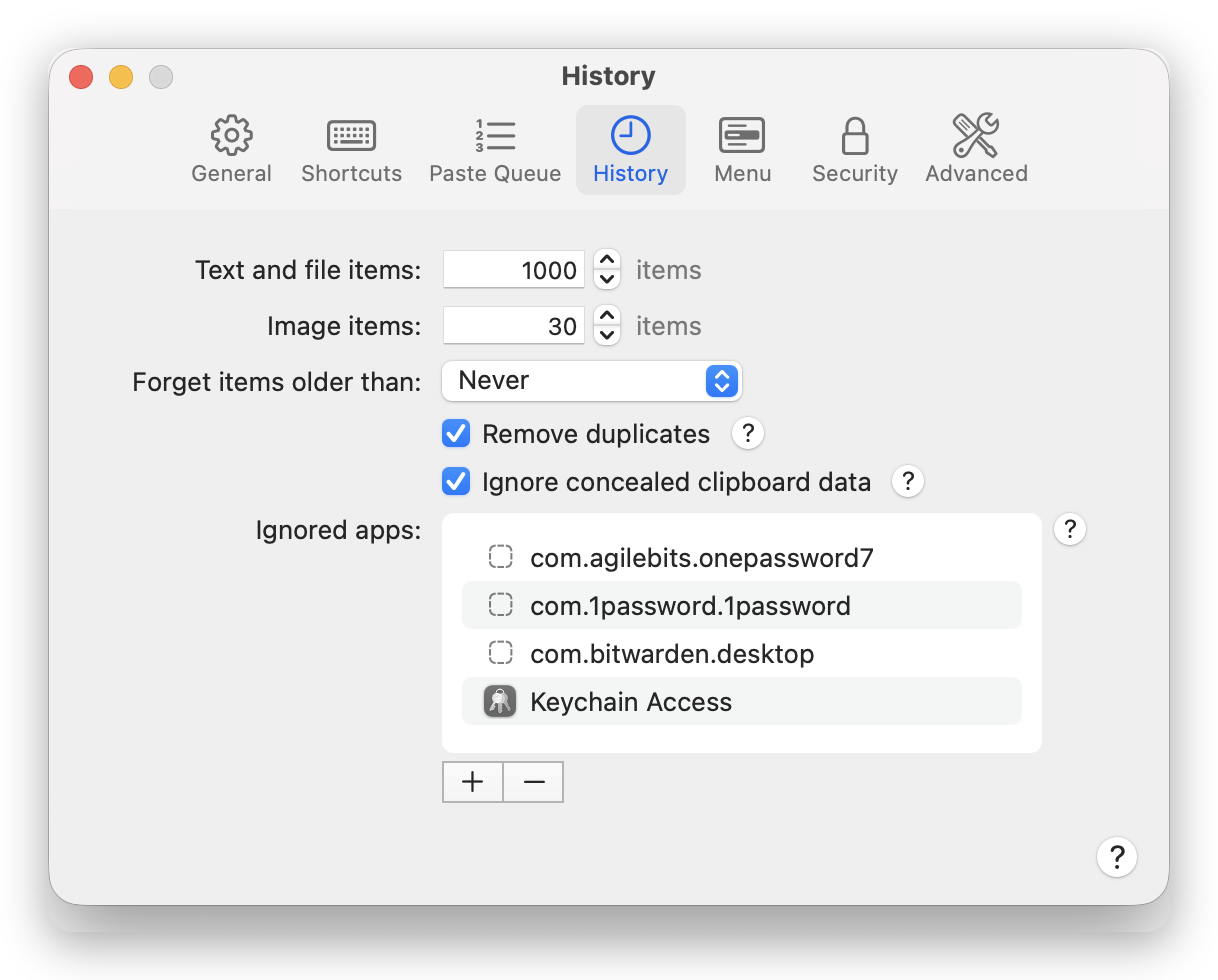
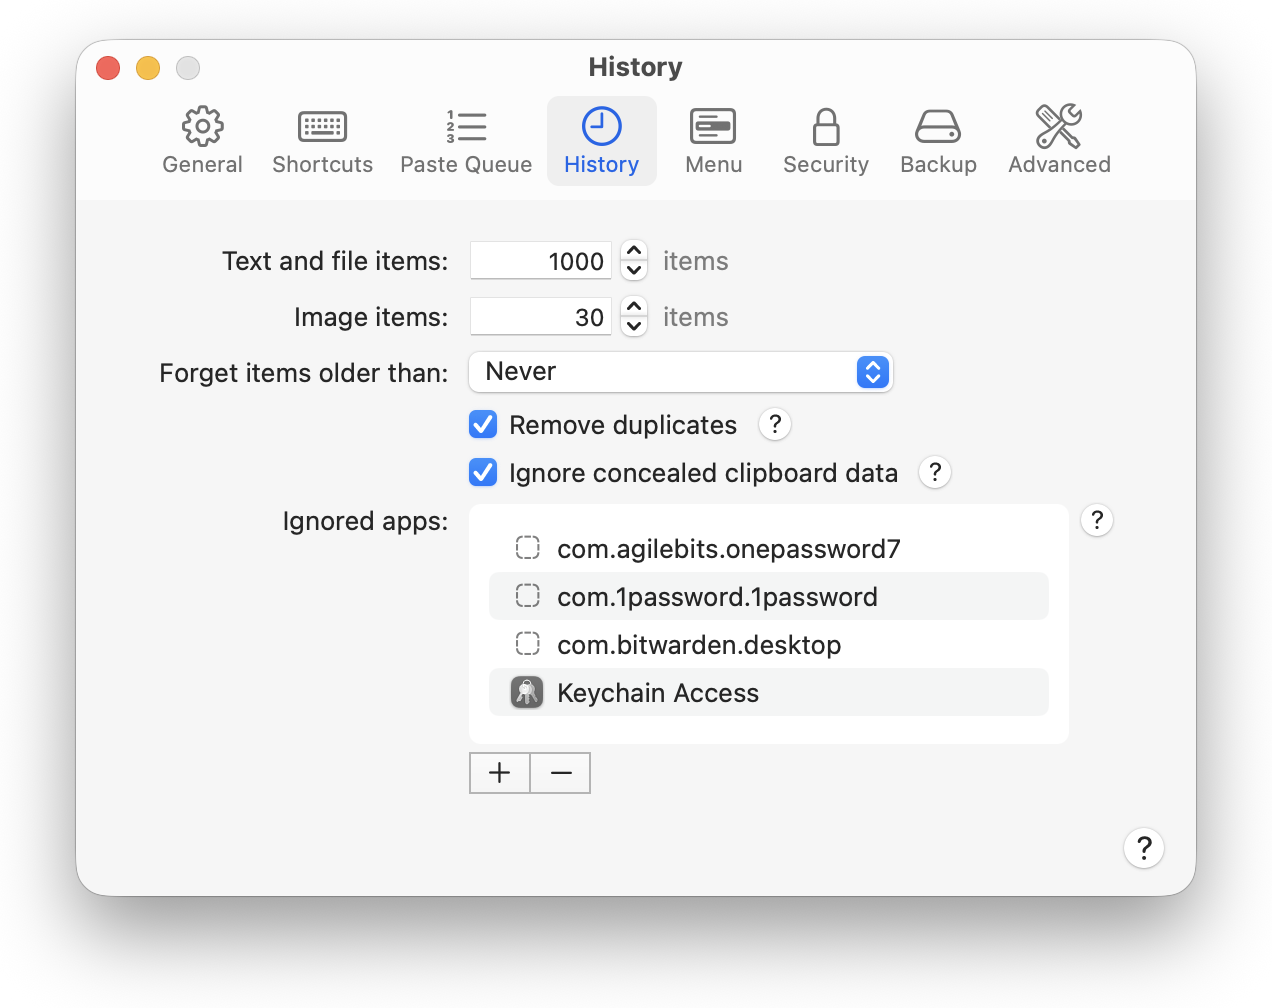
Guide: the eight Settings panes retaken for 3.0.1, every one with the same margins around the window
Scripts/normalize_screenshot.py finds the window inside a white-background
screenshot with its macOS shadow and re-crops to fixed margins (2x:
76 left/right, 40 top, 112 bottom — the full shadow plus a hair), so
every window shot in the guide sits the same way on the page.

Claude-Session: https://claude.ai/code/session_018CvCqvTTYcjZs6rVg6ZZHt

diff --git a/docs/site/guide.html b/docs/site/guide.html
@@ -197,7 +197,7 @@ cells into a form, lines from a page into a document. The paste queue does that 
 space or nothing — pick on the <em>Paste Queue</em> pane of Settings, where the idle time lives too. While the queue is on, the history menu marks its
 items: <code>▶</code> next to paste, <code>○</code> still queued, <code>✓</code> already pasted.</p>
 <figure class="shot" style="max-width:610px"><a href="img/guide/queue-menu.png?v=f33f01f7" class="zoom" title="Open full size"><img src="img/guide/queue-menu.png?v=f33f01f7" alt="The history menu with the queue on: ○ queued, ▶ next, ✓ pasted; the menu row shows how many are left" width="610" height="772" loading="lazy"></a><figcaption>The history menu with the queue on: ○ queued, ▶ next, ✓ pasted; the menu row shows how many are left</figcaption></figure>
-<figure class="shot" style="max-width:657px"><a href="img/guide/prefs-queue.png?v=753987a4" class="zoom" title="Open full size"><img src="img/guide/prefs-queue.png?v=753987a4" alt="Settings → Paste Queue" width="657" height="429" loading="lazy"></a><figcaption>Settings → Paste Queue</figcaption></figure>
+<figure class="shot" style="max-width:636px"><a href="img/guide/prefs-queue.png?v=8acf05f4" class="zoom" title="Open full size"><img src="img/guide/prefs-queue.png?v=8acf05f4" alt="Settings → Paste Queue" width="636" height="453" loading="lazy"></a><figcaption>Settings → Paste Queue</figcaption></figure>
 <h3 id="the-extended-menu">The extended menu</h3>
 <p>Hold <strong>⇧</strong> while the history menu is open and every item gets a <code>▸</code> submenu with all actions for
 that item: Paste, Paste as plain text, Copy only (clipboard, no paste), the <em>Paste as</em>
@@ -330,7 +330,7 @@ the empty line.</p>
 the Mac: pick a pane in the toolbar, and every change applies the moment you make it — there is no
 Save button; close the window with ⌘W or Esc. Every option with a <strong>?</strong> next to it has a popover
 that explains it.</p>
-<figure class="shot" style="max-width:598px"><a href="img/guide/prefs-general.png?v=a11ed208" class="zoom" title="Open full size"><img src="img/guide/prefs-general.png?v=a11ed208" alt="Settings → General" width="598" height="463" loading="lazy"></a><figcaption>Settings → General</figcaption></figure>
+<figure class="shot" style="max-width:636px"><a href="img/guide/prefs-general.png?v=f7d5654f" class="zoom" title="Open full size"><img src="img/guide/prefs-general.png?v=f7d5654f" alt="Settings → General" width="636" height="463" loading="lazy"></a><figcaption>Settings → General</figcaption></figure>
 <div class="tbl"><table>
 <thead>
 <tr>
@@ -373,8 +373,8 @@ that explains it.</p>
 </tr>
 </tbody>
 </table></div>
-<figure class="shot" style="max-width:609px"><a href="img/guide/prefs-history.png?v=d4706a61" class="zoom" title="Open full size"><img src="img/guide/prefs-history.png?v=d4706a61" alt="Settings → History: limits and the ignored-apps list" width="609" height="490" loading="lazy"></a><figcaption>Settings → History: limits and the ignored-apps list</figcaption></figure>
-<figure class="shot" style="max-width:609px"><a href="img/guide/prefs-hotkeys.png?v=dfd1878b" class="zoom" title="Open full size"><img src="img/guide/prefs-hotkeys.png?v=dfd1878b" alt="Settings → Shortcuts" width="609" height="679" loading="lazy"></a><figcaption>Settings → Shortcuts</figcaption></figure>
+<figure class="shot" style="max-width:636px"><a href="img/guide/prefs-history.png?v=5b6438c2" class="zoom" title="Open full size"><img src="img/guide/prefs-history.png?v=5b6438c2" alt="Settings → History: limits and the ignored-apps list" width="636" height="504" loading="lazy"></a><figcaption>Settings → History: limits and the ignored-apps list</figcaption></figure>
+<figure class="shot" style="max-width:636px"><a href="img/guide/prefs-hotkeys.png?v=3e077afa" class="zoom" title="Open full size"><img src="img/guide/prefs-hotkeys.png?v=3e077afa" alt="Settings → Shortcuts" width="636" height="717" loading="lazy"></a><figcaption>Settings → Shortcuts</figcaption></figure>
 <p>On the <strong>Shortcuts</strong> pane click a field and press a combination; ⌫ switches a key off; a
 combination already used by another command is refused and the reason is shown under the fields; <em>Reset to
 Defaults</em> brings back the ⌥-letter set (⌥M history, ⌥T templates, ⌥E Viewer, ⌥S Settings, ⌥C Clear History, ⌥P pause, ⌥L lock, ⌥Q quit), ⌥⇧V and ⌃⌥. <em>Paste item by number</em> and <em>Actions on the latest item</em>
@@ -396,7 +396,7 @@ recording (on some configurations it is excluded; this is not guaranteed) — fo
 fully trust, or one that is being screen-shared. At launch, and after a lock, Keepit asks for the password (or Touch ID);
 <em>Recovery Access…</em> takes the 24-word phrase instead — see <a href="#recovery-phrase">Recovery phrase</a>.</p>
 <figure class="shot" style="max-width:800px"><a href="img/guide/unlock-keyboard.jpg?v=4c0be394" class="zoom" title="Open full size"><img src="img/guide/unlock-keyboard.jpg?v=4c0be394" alt="Unlocking at launch: password, Quit, or the recovery phrase; OK stays disabled until something is typed. Photographed, for the same reason as above" width="800" height="600" loading="lazy"></a><figcaption>Unlocking at launch: password, Quit, or the recovery phrase; OK stays disabled until something is typed. Photographed, for the same reason as above</figcaption></figure>
-<figure class="shot" style="max-width:609px"><a href="img/guide/prefs-security.png?v=397de99b" class="zoom" title="Open full size"><img src="img/guide/prefs-security.png?v=397de99b" alt="Settings → Security" width="609" height="405" loading="lazy"></a><figcaption>Settings → Security</figcaption></figure>
+<figure class="shot" style="max-width:636px"><a href="img/guide/prefs-security.png?v=7c7df039" class="zoom" title="Open full size"><img src="img/guide/prefs-security.png?v=7c7df039" alt="Settings → Security" width="636" height="431" loading="lazy"></a><figcaption>Settings → Security</figcaption></figure>
 <h3 id="touch-id">Touch ID</h3>
 <p>With <em>Unlock with Touch ID</em> the key is also stored in the Secure Enclave behind your fingerprint:
 Keepit asks for a touch instead of the password. The password keeps working as a fallback — <em>Use
@@ -418,7 +418,7 @@ changed. There is no Keepit server: the folder is yours. What the provider behin
 encrypted file, its size and a small unencrypted header (when and by which Keepit it was written,
 how the key is derived, random identifiers — and your Mac's name only if you switch that on); the
 <a href="/security#backups">security page</a> lists it field by field.</p>
-<figure class="shot" style="max-width:741px"><a href="img/guide/prefs-backup.png?v=87fe5836" class="zoom" title="Open full size"><img src="img/guide/prefs-backup.png?v=87fe5836" alt="Settings → Backup: automatic backup, manual backup, restore" width="741" height="484" loading="lazy"></a><figcaption>Settings → Backup: automatic backup, manual backup, restore</figcaption></figure>
+<figure class="shot" style="max-width:636px"><a href="img/guide/prefs-backup.png?v=20cf46e6" class="zoom" title="Open full size"><img src="img/guide/prefs-backup.png?v=20cf46e6" alt="Settings → Backup: automatic backup, manual backup, restore" width="636" height="527" loading="lazy"></a><figcaption>Settings → Backup: automatic backup, manual backup, restore</figcaption></figure>
 <p><strong>Switching it on.</strong> <em>Settings → Backup → Back up automatically to a folder</em>, then
 <em>Choose…</em> a folder (the chooser opens in iCloud Drive). Automatic backup needs the password
 protection from <em>Settings → Security</em>: each copy is sealed with a key derived from your vault's key,
@@ -544,7 +544,7 @@ entries (including the Touch ID key), the login item and the Accessibility entry
 password or Touch ID, a typed <code>DELETE</code> and a confirmation — export a backup first if you might want
 the data back. With Homebrew, run <code>brew uninstall --cask --force keepit</code> afterwards so Homebrew
 forgets the cask.</p>
-<figure class="shot" style="max-width:609px"><a href="img/guide/prefs-advanced.png?v=401b9b94" class="zoom" title="Open full size"><img src="img/guide/prefs-advanced.png?v=401b9b94" alt="Settings → Advanced" width="609" height="361" loading="lazy"></a><figcaption>Settings → Advanced</figcaption></figure>
+<figure class="shot" style="max-width:636px"><a href="img/guide/prefs-advanced.png?v=8dd10f4d" class="zoom" title="Open full size"><img src="img/guide/prefs-advanced.png?v=8dd10f4d" alt="Settings → Advanced" width="636" height="515" loading="lazy"></a><figcaption>Settings → Advanced</figcaption></figure>
 <hr />
 <h2 id="reference">Reference</h2>
 <h3 id="troubleshooting">Troubleshooting</h3>

diff --git a/Scripts/_winbox.py b/Scripts/_winbox.py
@@ -1,0 +1,45 @@
+from PIL import Image
+import numpy as np, glob, os, sys, json
+
+def lum(a): return (0.299*a[:,:,0]+0.587*a[:,:,1]+0.114*a[:,:,2])
+
+def edge_from(line, light=226, run=60):
+    """line: 1-D luminance scanned from outside inward. Returns (shadow_start, window_edge) or None."""
+    n=len(line)
+    nonwhite=np.where(line<252)[0]
+    if len(nonwhite)==0: return None
+    s=nonwhite[0]
+    i=s
+    while i<n-run:
+        if line[i]>light and (line[i:i+run]>light).all():
+            return s,i
+        i+=1
+    return None
+
+def analyze(path):
+    im=Image.open(path).convert('RGB'); a=np.array(im).astype(float); L=lum(a); H,W=L.shape
+    # border must be white for this to be a shadowed window shot
+    border=np.concatenate([L[0,:],L[-1,:],L[:,0],L[:,-1]])
+    if border.min()<240: return None
+    res={}
+    rows=range(H*2//5, H*3//5, max(1,H//40)); cols=range(W*2//5, W*3//5, max(1,W//40))
+    def med(vals): 
+        vals=[v for v in vals if v]; 
+        return (int(np.median([v[0] for v in vals])), int(np.median([v[1] for v in vals]))) if vals else None
+    res['L']=med([edge_from(L[y,:]) for y in rows])
+    res['R']=med([edge_from(L[y,::-1]) for y in rows])
+    res['T']=med([edge_from(L[:,x]) for x in cols])
+    res['B']=med([edge_from(L[::-1,x]) for x in cols])
+    if any(v is None for v in res.values()): return None
+    return dict(W=W,H=H,
+        win=(res['L'][1], res['T'][1], W-1-res['R'][1], H-1-res['B'][1]),      # x0,y0,x1,y1 of window
+        shadow=dict(L=res['L'][1]-res['L'][0], T=res['T'][1]-res['T'][0], R=res['R'][1]-res['R'][0], B=res['B'][1]-res['B'][0]),
+        margin=dict(L=res['L'][1], T=res['T'][1], R=res['R'][1], B=res['B'][1]))
+
+if __name__=='__main__':
+    for f in sorted(sys.argv[1:]):
+        r=analyze(f)
+        name=os.path.basename(f)
+        if r is None: print(f"{name:34s} — no white border / not a window shot"); continue
+        m=r['margin']; s=r['shadow']
+        print(f"{name:34s} {r['W']}x{r['H']}  window {r['win'][2]-r['win'][0]+1}x{r['win'][3]-r['win'][1]+1}  margin L{m['L']} T{m['T']} R{m['R']} B{m['B']}  shadow L{s['L']} T{s['T']} R{s['R']} B{s['B']}")

diff --git a/Scripts/normalize_screenshot.py b/Scripts/normalize_screenshot.py
@@ -1,0 +1,22 @@
+"""Normalize a window screenshot (white background, macOS shadow) to fixed margins around the window.
+Usage: normalize.py SRC DST  — margins at 2x: left/right 76, top 40, bottom 112."""
+from PIL import Image
+import numpy as np, sys
+import os; sys.path.insert(0, os.path.dirname(os.path.abspath(__file__))); from _winbox import analyze, lum
+M=dict(L=76,T=40,R=76,B=112)
+def top_edge(L, x):
+    col=L[:,x]; dark=np.where(col<=245)[0]
+    if len(dark)==0: return None
+    s=dark[0]; d=np.diff(col[s:s+40]); j=np.where(d>=8)[0]
+    return s + (int(j[0])+1 if len(j) else 0)
+def normalize(src, dst):
+    r=analyze(src); assert r, src
+    x0,y0,x1,y1=r['win']
+    im=Image.open(src).convert('RGB'); L=lum(np.array(im).astype(float))
+    tops=[t for t in (top_edge(L,x0+dx) for dx in (250,300,400,500,600)) if t is not None]
+    if tops: y0=int(np.median(tops))
+    W=x1-x0+1+M['L']+M['R']; H=y1-y0+1+M['T']+M['B']
+    out=Image.new('RGB',(W,H),(255,255,255)); out.paste(im,(M['L']-x0, M['T']-y0)); out.save(dst, optimize=True)
+    return (x1-x0+1,y1-y0+1)
+if __name__=='__main__':
+    print(normalize(sys.argv[1], sys.argv[2]))
